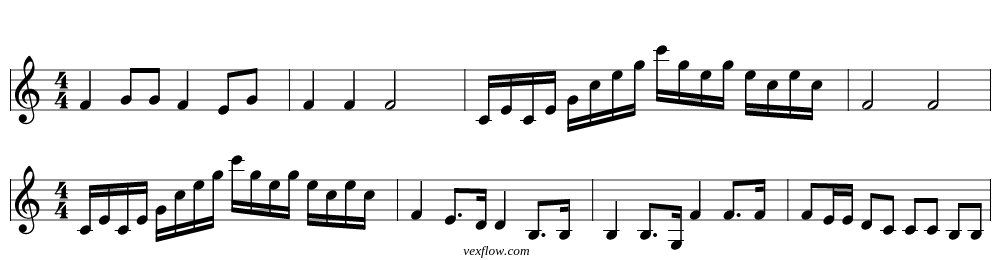
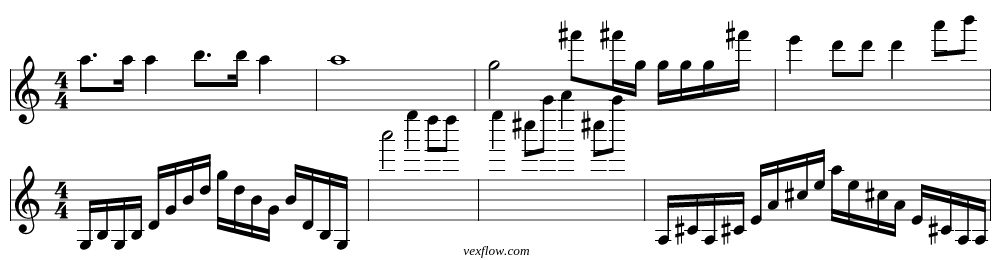
delete and restart

diff --git a/static/js/angular/app.js b/static/js/angular/app.js
@@ -1,27 +1,28 @@
 var app = angular.module('composer', []);
 app.controller('main', function($scope, $http, $window, $timeout) {
 	$scope.tab = null;
-	notes = {"A#1" : 58.2705, "B1" : 61.7354, "C2" : 65.4064,
-	"C#2" : 69.2957, "D2" : 73.4162, "D#2" : 77.7817, "E2" : 82.4069,
+	notes = {"B@1" : 58.2705, "B1" : 61.7354, "C2" : 65.4064,
+	"C#2" : 69.2957, "D2" : 73.4162, "E@2" : 77.7817, "E2" : 82.4069,
 	"F2" : 87.3071, "F#2" : 92.4986, "G2" : 97.9989, "G#2" : 103.826,
-	"A2" : 110, "A#2" : 116.542, "B2" : 123.471, "C3" : 130.813,
-	"C#3" : 138.591, "D3" : 146.832, "D#3" : 155.563, "E3" : 164.814,
+	"A2" : 110, "B@2" : 116.542, "B2" : 123.471, "C3" : 130.813,
+	"C#3" : 138.591, "D3" : 146.832, "E@3" : 155.563, "E3" : 164.814,
 	"F3" : 174.614, "F#3" : 184.997, "G3" : 195.998, "G#3" : 207.652,
-	"A3" : 220, "A#3" : 233.082, "B3" : 246.942, "C4" : 261.626,
-	"C#4" : 277.183, "D4" : 293.665, "D#4" : 311.127, "E4" : 329.628,
+	"A3" : 220, "B@3" : 233.082, "B3" : 246.942, "C4" : 261.626,
+	"C#4" : 277.183, "D4" : 293.665, "E@4" : 311.127, "E4" : 329.628,
 	"F4" : 349.228, "F#4" : 369.994, "G4" : 391.995, "G#4" : 415.305,
-	"A4" : 440, "A#4" : 466.164, "B4" : 493.883, "C5" : 523.251,
-	"C#5" : 554.365, "D5" : 587.330, "D#5" : 622.254, "E5" : 659.255,
+	"A4" : 440, "B@4" : 466.164, "B4" : 493.883, "C5" : 523.251,
+	"C#5" : 554.365, "D5" : 587.330, "E@5" : 622.254, "E5" : 659.255,
 	"F5" : 698.456, "F#5" : 739.989, "G5" : 783.991, "G#5" : 830.609,
-	"A5" : 880, "A#5" : 932.328, "B5" : 987.767, "C6" : 1046.5,
-	"C#6" : 1108.73, "D6" : 1174.66, "D#6" : 1244.51, "E6" : 1318.51,
+	"A5" : 880, "B@5" : 932.328, "B5" : 987.767, "C6" : 1046.5,
+	"C#6" : 1108.73, "D6" : 1174.66, "E@6" : 1244.51, "E6" : 1318.51,
 	"F6" : 1396.91, "F#6" : 1479.98, "G6" : 1567.98, "G#6" : 1661.22,
-	"A6" : 1760, "A#6" : 1864.66, "B6" : 1975.53, "C7" : 2093,
-	"C#7" : 2217.46, "D7" : 2349.32, "D#7" : 2489.02, "E7" : 2637.02,
+	"A6" : 1760, "B@6" : 1864.66, "B6" : 1975.53, "C7" : 2093,
+	"C#7" : 2217.46, "D7" : 2349.32, "E@7" : 2489.02, "E7" : 2637.02,
 	"F7" : 2793.83, "F#7" : 2959.96, "G7" : 3135.96, "G#7" : 3322.44,
-	"A7" : 3520, "A#7" : 3729.31, "B7" : 3951.07, "C8" : 4186.01};
+	"A7" : 3520, "B@7" : 3729.31, "B7" : 3951.07, "C8" : 4186.01};
+
 	function matchNote(freq){
-		var closest = "A#1"; // Default closest note
+		var closest = "B@1"; // Default closest note
 		var closestFreq = 58.2705;
 		for (var key in notes) { // Iterates through note look-up table
 			// If the current note in the table is closer to the given
@@ -40,17 +41,17 @@ app.controller('main', function($scope, $http, $window, $timeout) {
 		}
 		return [closest, closestFreq];
 	}
-	$scope.delete = function(){
-		if ($scope.deletion) {
-			$http({
-				url: "/restart",
-				method: "POST",
-				data: {index: 4, note: 14}
-			})
-			.success(function(data, status, headers, config){
-				$scope.tab = data.vex
-			})
-		}
+
+	$scope.delete = function(index, note){
+		$http({
+			url: "/restart",
+			method: "POST",
+			data: {index: index, note: note}
+		})
+		.success(function(data, status, headers, config){
+			$scope.data = data;
+			$scope.tab = data.vex
+		})
 	}
 	$scope.arpeggio = function(){
 		$http({
@@ -58,13 +59,18 @@ app.controller('main', function($scope, $http, $window, $timeout) {
 			method: "POST"
 		})
 		.success(function(data, status, headers, config){
-			$scope.tab = data.vex
+			$scope.data = data;
+			$scope.tab = data.vex;
 		})
 	}
+
 	var mic = new Microphone();
 	mic.initialize();
 	var listening = false;
-
+	var currentNote = "";
+	var counter = 0;
+	var currentLocation = 0;
+	var none = 0;
 	var poll = function() {
 		$timeout(function() {
 			if (mic.isInitialized()) {
@@ -74,14 +80,75 @@ app.controller('main', function($scope, $http, $window, $timeout) {
 				}
 				var freq = mic.getFreq(1);
 				if (freq > 250 && freq < 1600) {
-					console.log(matchNote(freq));
+					if (none < 20) {
+						var newNote = matchNote(freq)[0];
+						if (currentNote == newNote) {
+							counter++;
+						}
+						else {
+							counter = 0;
+							currentNote = newNote;
+						}
+						if (counter == 3) {
+							none = 0;
+							currentLocation = findLocation(currentNote, currentLocation);
+						}
+						console.log(currentLocation);
+					}
+					else{
+						console.log("Waiting");
+						newNote = matchNote(freq)[0]
+						if (currentNote == newNote) {
+							counter++;
+						}
+						else {
+							counter = 0;
+							currentNote = newNote;
+						}
+						if (counter == 5) {
+							var octave = parseInt(currentNote.slice(-1));
+							var letter = currentNote.slice(0, -1);
+							var correlation = {'C': 0, 'C#': 1, 'D': 2, 'E@': 3, 'E': 4, 'F': 5, 'F#': 6, 'G': 7, 'G#': 8, 'A': 9, 'B@': 10, 'B': 11};
+							var note = correlation[letter] + (12 * (octave - 3));
+							console.log("Deleting and restarting");
+							$scope.delete(currentLocation, note);
+							none = 0;
+						}
+					}
 				}
+				none++;
 			}
 			poll();
 		}, 100);
 	};
 
 	poll();
+
+	function findLocation(completeNote, loc) {
+		var octave = parseInt(completeNote.slice(-1));
+		if (octave < 3 || octave > 6) {
+			return loc;
+		}
+		var letter = completeNote.slice(0, -1);
+		var correlation = {'C': 0, 'C#': 1, 'D': 2, 'E@': 3, 'E': 4, 'F': 5, 'F#': 6, 'G': 7, 'G#': 8, 'A': 9, 'B@': 10, 'B': 11};
+		var note = correlation[letter] + (12 * (octave - 3));
+		var seen = false;
+		var prev = note;
+		var returnLoc = loc;
+		for (var i = loc; i < $scope.data.tab.length; i++) {
+			for (var j = 0; j < $scope.data.tab[i].length; j++) {
+				currentNote = $scope.data.tab[i][j].note;
+				if (seen == true && note !== currentNote) {
+					return returnLoc;
+				}
+				if (note === currentNote) {
+					seen = true;
+					returnLoc = i;
+				}
+			}
+		}
+		return loc;
+	}
 });
 
 app.directive('vextab', function($compile, $http, $window){
@@ -98,6 +165,7 @@ app.directive('vextab', function($compile, $http, $window){
 							artist.reset();
 							$http.get('/compose/17')
 								.success(function(data, status, headers, config){
+									scope.data = data;
 									scope.tab = data.vex;
 									vextab.parse(scope.tab);
 									artist.render(renderer);

diff --git a/templates/index.html b/templates/index.html
@@ -3,7 +3,7 @@
 	</head>
 	<body ng-controller="main">
 		<input type="text" ng-model="deletion" />
-		<button ng-click="delete()">Delete Here</button>
+		<button ng-click="delete(4, 14)">Delete Here</button>
 		<button ng-click="arpeggio()">ARPEGGIO</button>
 		<div style="display: flex; justify-content: center">
 			<vextab tab="tab"/>
